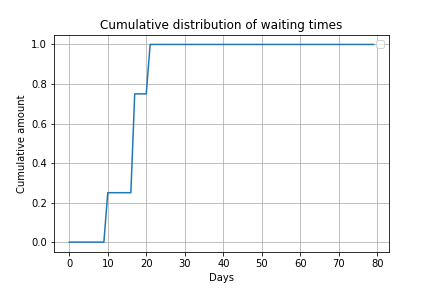
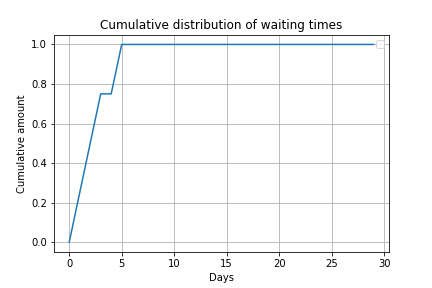
hei

diff --git a/src/simulation.py b/src/simulation.py
@@ -88,10 +88,64 @@ class Simulation:
         number_of_exits = len(self.patient_exit_list)
         if number_of_exits == 0:
             return 0
-        sum = 0
+        total_sum = 0
+        
+        uterine_sum = 0
+        uterine_total_sum = 0
+        
+        cervical_sum = 0
+        cervical_total_sum = 0
+        
+        ovarian_sum = 0
+        ovarian_total_sum = 0
+        
         for patient in self.patient_exit_list:
-            sum += patient.number_of_days_in_system
-        return sum/number_of_exits
+            if patient.entering_day >= warm_up_period:
+                total_sum += patient.number_of_days_in_system
+                if patient.diagnosis == "uterine":
+                    uterine_sum += patient.number_of_days_in_system
+                    uterine_total_sum += 1
+                elif patient.diagnosis == "cervical":
+                    cervical_sum += patient.number_of_days_in_system
+                    cervical_total_sum += 1
+                elif patient.diagnosis == "ovarian":
+                    ovarian_sum += patient.number_of_days_in_system
+                    ovarian_total_sum += 1
+        
+        if number_of_exits == 0:
+            tot = 0
+        else:
+            tot = (total_sum/number_of_exits)
+            
+        if uterine_total_sum == 0:
+            ut = 0
+        else:
+            ut = (uterine_sum/uterine_total_sum)
+            
+        if cervical_total_sum == 0:
+            ce = 0
+        else:    
+            ce = (cervical_sum/cervical_total_sum)
+            
+        if ovarian_total_sum == 0:
+            ov = 0
+        else:
+            ov = (ovarian_sum/ovarian_total_sum)
+        
+        return tot, ut, ce, ov 
+    
+    #Calculates the number of waiting periods per queue and the number of patients entering each queue
+    def calculate_waiting_periods_per_queue(self, warm_up_period):
+        queue_array = np.zeros(mf.get_total_number_of_queues())
+        patients_in_queue = np.zeros(mf.get_total_number_of_queues())
+        for patient in self.patient_exit_list:
+            if patient.entering_day >= warm_up_period:
+                for queue in patient.queue_history:
+                    n_value = patient.queue_history[queue][1]
+                    queue_array[queue] = queue_array[queue] + n_value
+                    patients_in_queue[queue] = queue_array[queue] + 1
+        return queue_array, patients_in_queue
+            
 
 
 
@@ -1007,6 +1061,52 @@ def time_limit_violation_plot(s, sim_days, warm_up_period):
     plt.close()
 
 
+def time_limit_violation_plot_2(s, sim_days, warm_up_period):
+    sim_days += 1
+    days = np.arange(0,sim_days)
+    violations_1 = []
+    violations_2 = []
+    violations_3 = []
+    violation_days_1 = []
+    violation_days_2 = []
+    violation_days_3 = []
+    total_patients_exited = len(s.patient_exit_list) + len(s.get_discharged_patients())
+    for day in range(sim_days):
+        violation_amount, violation_days = calculate_time_limit_violations(s, day, warm_up_period)
+        violations_1.append(violation_amount[0])
+        violations_2.append(violation_amount[1])
+        violations_3.append(violation_amount[2])
+        violation_days_1.append(violation_days[0])
+        violation_days_2.append(violation_days[1])
+        violation_days_3.append(violation_days[2])
+
+
+    cum1 = np.divide(np.cumsum(violations_1), total_patients_exited)
+    cum2 = np.divide(np.cumsum(violations_2), total_patients_exited)
+    cum3 = np.divide(np.cumsum(violations_3), len(s.patient_exit_list))
+    #cum_tot = np.add(np.add(cum1, cum2), cum3)
+    #cum_tot = np.divide(cum_tot, total_patients_exited)
+    ax1 = plt.gca()
+    ax2 = ax1.twinx()
+    #g = ax1.plot(days, cum_tot, linestyle='-', label="tot")
+    a = ax1.plot(days, cum1, linestyle='-', label="Phase 1")
+    b = ax1.plot(days, cum2, linestyle='-', label="Phase 2")
+    c = ax1.plot(days, cum3, linestyle='-', label="Phase 3")
+    d = ax2.plot(days, s.total_num_in_queue[1:], linestyle='--',label="Number of patients")
+    ax1.set_xlabel('Days')
+    ax1.set_ylabel("Share of patients violating the time limit")
+    ax2.set_ylabel("Number of patients")
+    #ax1.set_ylim(ymax=1)
+    lns = a+b+c+d
+    labs = [l.get_label() for l in lns]
+    ax1.legend(lns, labs, loc='best')
+  
+
+    plt.title('Time limit violations')
+    ax1.grid()
+    plt.savefig("simulation/sim_figures/time_limit_violations.png")
+    plt.close()
+
 
 def calculate_time_limit_violations(s, this_day, warm_up_period):
     time_limit_violations=[0,0,0]
@@ -1148,7 +1248,7 @@ def main():
     G = None
     E = None
     M = 80
-    N = 80#int(np.round(M*3/5))
+    N = 80
     shift = 6
 
     #Simulation param
@@ -1177,7 +1277,9 @@ def main():
             E = s.create_E_matrix()
             G = s.create_G_matrix()
             print(sum_1)
-            sum_1 = np.zeros(16)
+            print(s.calculate_waiting_times(warm_up_period))
+            print(s.calculate_waiting_periods_per_queue(warm_up_period))
+            
 
             create_capacity_graph(s, i + 1)
             _, b_variable, _ = mm.optimize_model(weeks = weeks, N_input = N, M_input = M, shift = shift, with_rolling_horizon = True, in_iteration = False, weights = None, G = G, E = E, K = K_rol_hor)
@@ -1196,6 +1298,8 @@ def main():
             resource_usage_plot(s, i + 1, simulation_horizon)
 
             create_stacked_plot(s)
+            
+            
             if i > 6:
                 create_total_queue_development(s)
             
@@ -1209,8 +1313,8 @@ def main():
     print("Discharged from diagnosis:",s.summarize_discharged_from_diagnosis())
     if s.total_patients_generated > 0:
         print("Exited/generated:",(s.total_patients_exited + s.summarize_discharged_from_diagnosis())/s.total_patients_generated)
-    print("Avg. waiting time:", s.calculate_waiting_times(warm_up_period))
-    print(calculate_time_limit_violations(s, simulation_horizon, warm_up_period))
+    print("Waiting times:",s.calculate_waiting_times(warm_up_period))
+    print(s.calculate_waiting_periods_per_queue(warm_up_period))
 
 
 

diff --git a/src/model_parameters.py b/src/model_parameters.py
@@ -138,7 +138,7 @@ t,m,m,m,m,
 t,m,m])
 
 
-f1 = 6
+f1 = 0#6
 s1 = 22
 t1 = 36
 
